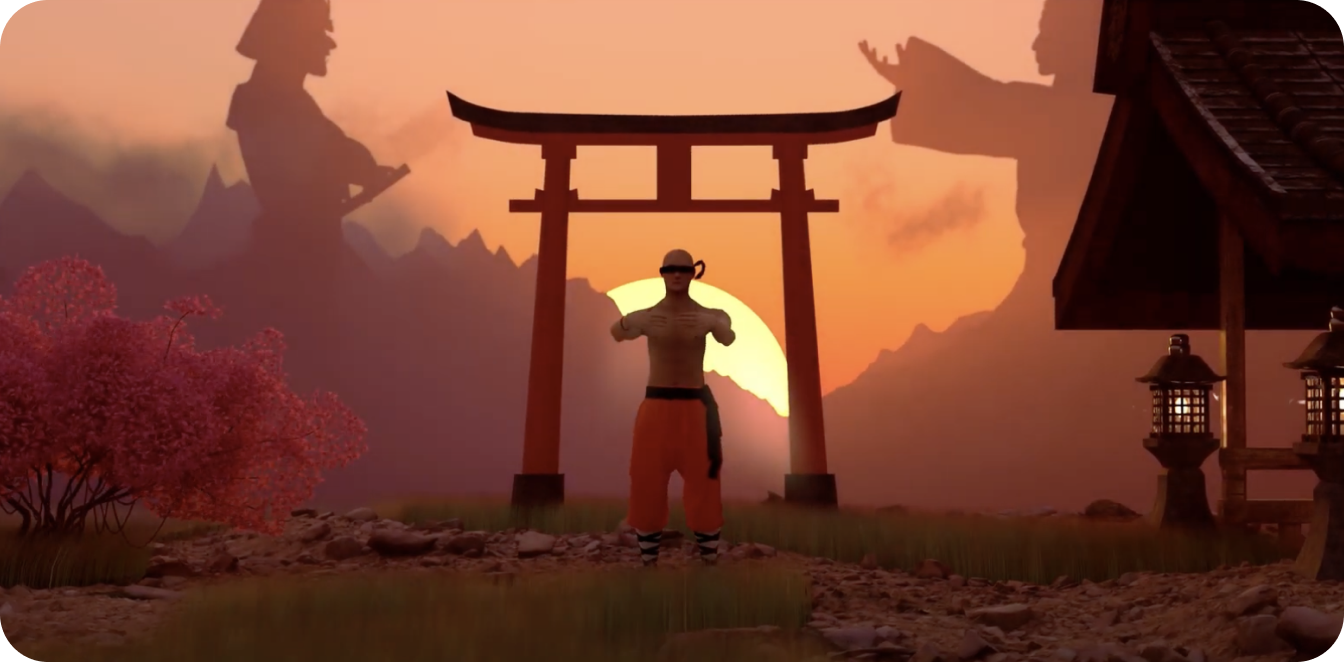
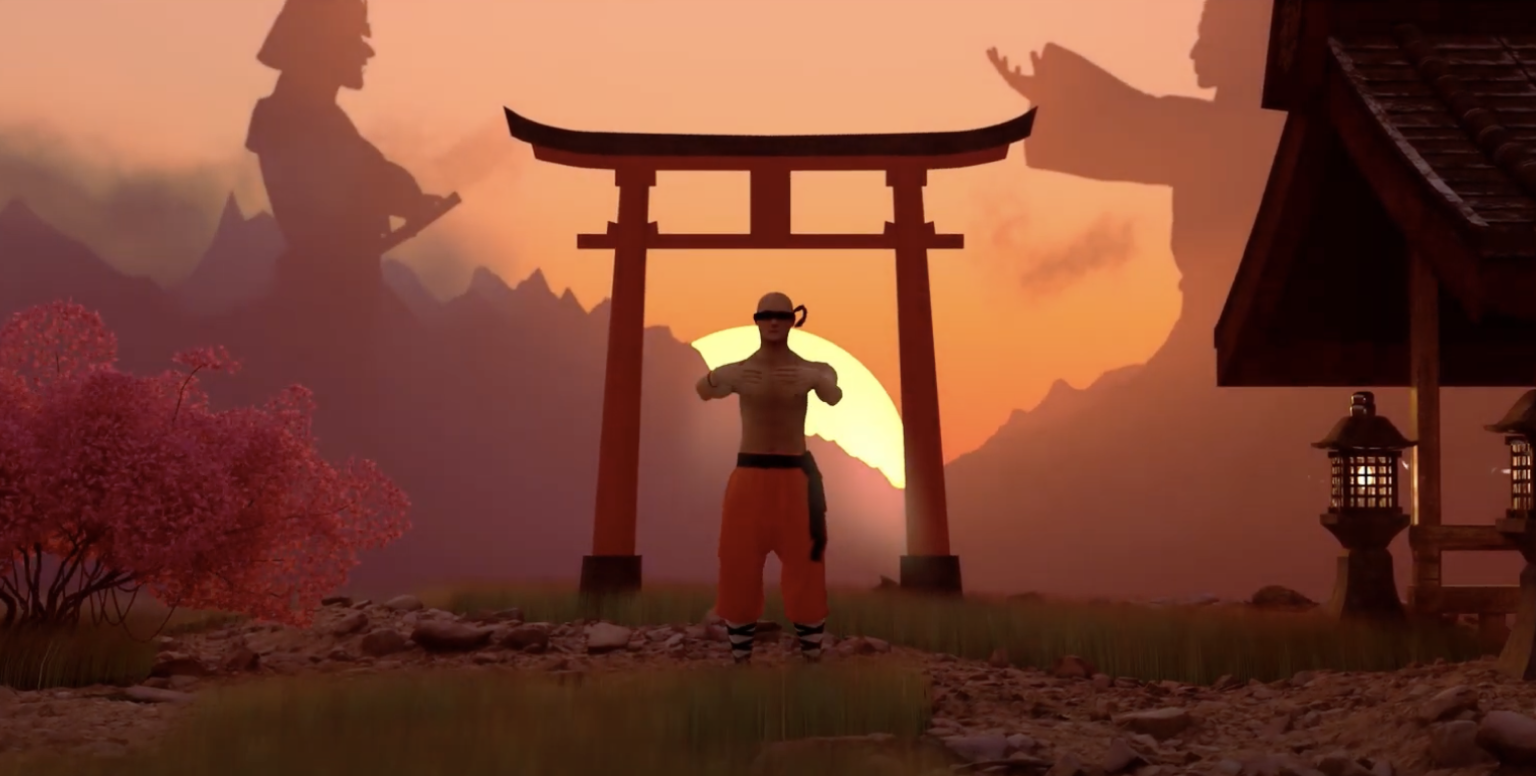
Scrolling navbar

diff --git a/src/pages/index.js b/src/pages/index.js
@@ -56,24 +56,35 @@ export default function Home() {
 
 	function ThreeD() {
 		return (
-			<div>
+			<div className={'relative'}>
 				<Image
 					id='heroImage'
-					className='w-full rounded-3xl'
+					className='w-full max-h-[900px]'
 					src={taichi}
 					alt="Picture of the author"
 					placeholder='blur'
+					style={{objectFit:"cover"}}
 				/>
-				<div className='px-24'>
+				<div className='container mx-auto px-5'>
 					<h1 className='text-subtitle1 mt-14'>Why 3D?</h1>
 					<div className='h-1 w-9 bg-obsidian dark:bg-white mt-3'></div>
 					<p className='text-cardText1 mt-4'>3D is the best way to make your product stand out from the crowd.</p>
 				</div>
 
-				<div className='flex gap-8 px-24 mt-28'>
+				<div className='flex gap-8 mt-28 flex-wrap lg:flex-nowrap container mx-auto px-5'>
 
-					<Card></Card>
-					<Card></Card>
+					<Card
+						title={'Our process'}
+						description={'We believe in the agile process. We would love to discuss our approach with you'}
+						more={'We believe in the agile process. We would love to discuss our approach with you. We believe in the agile process. We would love to discuss our approach with you.'}
+					></Card>
+
+
+					<Card
+						title={'Our process'}
+						description={'We believe in the agile process. We would love to discuss our approach with you'}
+						more={'We believe in the agile process. We would love to discuss our approach with you. We believe in the agile process. We would love to discuss our approach with you.'}
+					></Card>
 
 				</div>
 			</div>
@@ -193,7 +204,7 @@ export default function Home() {
 
 				<div id='firstSection' className='mt-10 rounded-t-3xl pt-40 pb-16 bg-white dark:bg-black relative'>
 
-					<div className='container mx-auto px-10'>
+					<div className='container mx-auto px-10 mb-24 md:mb-72 lg:mb-80'>
 						<p className='text-hero text-obsidian dark:text-white relative'><span className='text-ornament absolute bottom-[13px] -ml-10'>01</span>What we do</p>
 
 						<p className='text-subtitle1 text-obsidian dark:text-white mt-24 md:mt-72 lg:mt-80'>We help creating your dreams.</p>
@@ -201,20 +212,18 @@ export default function Home() {
 					</div>
 
 
-					<div className='sticky top-36 z-10 container mx-auto'>
+					<div className='sticky top-36 z-10 container mx-auto overflow-x-scroll sm:overflow-x-visible sm:my-16 fuckScrollBar'>
 						<div id='tab'
 							 className='relative flex flex-row justify-between text-body backdrop-blur-[10px]
 							  text-obsidian dark:text-white w-full bg-cloud dark:bg-storm rounded-full h-[67px] sm:h-[85px]
-							   items-center px-10 mt-16 mb-16'>
-							<span id='bubbleTab' className='absolute bg-white dark:bg-obsidian w-[280px] h-[43px] sm:h-[60px] rounded-full left-0 transition-all'>
-
-							</span>
-							<p id='tab1' className='z-10 cursor-pointer px-10 py-8' onClick={(e)=> moveTab(e,1)}>3D Projects</p>
-							<p id='tab2' className='z-10 cursor-pointer px-10 py-8' onClick={(e)=> moveTab(e,2)}>UI & UX Design</p>
-							<p id='tab3' className='z-10 cursor-pointer px-10 py-8' onClick={(e)=> moveTab(e,3)}>Coding</p>
-							<p id='tab4' className='z-10 cursor-pointer px-10 py-8' onClick={(e)=> moveTab(e,4)}>Video & Photo</p>
+							   items-center px-10 min-w-[600px] m-[10px] sm:m-0'>
+							<span id='bubbleTab' className='absolute bg-white dark:bg-obsidian w-[280px] h-[43px] sm:h-[60px] rounded-full left-0 transition-all'></span>
+							<p id='tab1' className='z-10 cursor-pointer px-4 lg:px-10 py-8' onClick={(e)=> moveTab(e,1)}>3D Projects</p>
+							<p id='tab2' className='z-10 cursor-pointer px-4 lg:px-10 py-8' onClick={(e)=> moveTab(e,2)}>UI & UX Design</p>
+							<p id='tab3' className='z-10 cursor-pointer px-4 lg:px-10 py-8' onClick={(e)=> moveTab(e,3)}>Coding</p>
+							<p id='tab4' className='z-10 cursor-pointer px-4 lg:px-10 py-8' onClick={(e)=> moveTab(e,4)}>Video & Photo</p>
 						</div>
-						<div className='border-gradient -z-50 rounded-full'></div>
+						<div className='border-gradient sm:m-0 -z-50 rounded-full min-w-[600px]'></div>
 					</div>
 					<div className='bg-zinc-50 dark:bg-neutral-900'>
 						<Activity step={tabState}></Activity>

diff --git a/src/components/card.js b/src/components/card.js
@@ -1,41 +1,53 @@
 import React, {useEffect, useState} from "react";
 import openCard from "../../public/open-card.svg";
 import openCardDark from "../../public/open-card-dark.svg";
+import closeModal from "../../public/close-modal.svg";
+import closeModalDark from "../../public/close-modal-dark.svg";
 import Image from "next/image";
 
-export default function Card() {
+export default function Card(props) {
 
 	const [backdrop, setBackdrop] = useState(false)
 
 	useEffect(() => {
-
 		if(backdrop) {
 			document.querySelector('body').style.overflowY = 'hidden'
 		} else {
 			document.querySelector('body').style.overflowY = 'auto'
 		}
-	}, );
+
+		function escFunction(event){
+			if (event.key === "Escape") {
+				if(backdrop) {
+					setBackdrop(false)
+				}
+			}
+		}
+
+		window.addEventListener("keydown", escFunction);
+		return () => {
+			window.removeEventListener("keydown", escFunction);
+		};
+	});
+
 
 	function BackDrop() {
 		return (
 			<div className='flex fixed top-0 bottom-0 right-0 left-0 justify-center items-center z-50'>
-				<div className='fixed top-0 bottom-0 right-0 left-0 backdrop-blur-xl'></div>
-				<div className='flex flex-col bg-white justify-between rounded-2xl w-[900px] pt-20 px-20 pb-16 z-30'>
-					<h3 className='font-bold text-3xl'>Our suite</h3>
-					<p className='h-1 w-10 bg-nytz-dark mt-8 mb-16'></p>
-					<p className='mb-16'>
-						3D is a way to make your product stand out from the crowd 3D is a way to make your product
-						stand out from the crowd 3D is a way to make your product stand out from the crowd 3D is a
-						way to make your product stand out from the crowd 3D is a way to make your product stand out
-						from the crowd 3D is a way to make your product stand out from the crowd 3D is a way to make
-						your product stand out from the crowd 3D is a way to make your product stand out from the crowd
-						3D is a way to make your product stand out from the crowd
-					</p>
+				<div
+					onClick={()=> setBackdrop(false)}
+					className='fixed top-0 bottom-0 right-0 left-0 bg-modal-backdrop/60 dark:bg-black/60 backdrop-blur-xl'></div>
+				<div className='flex flex-col bg-fog dark:bg-obsidian justify-between rounded-2xl w-[900px] pt-20 px-20 pb-16 z-30 mx-5'>
+					<h3 className='text-subtitle1'>{props.title}</h3>
+					<div className='h-1 w-9 bg-obsidian dark:bg-white mt-3'></div>
 
+					<p className='text-body mt-16 mb-16'>{props.more}</p>
 					<p
 						onClick={()=> setBackdrop(false)}
-						className='border border-nytz-dark w-14 h-14 flex rounded-full self-center flex-wrap justify-center content-center cursor-pointer'>
-						X
+						className='flex rounded-full self-center flex-wrap justify-center content-center cursor-pointer'>
+						<Image alt='' src={closeModal} className='block dark:hidden'></Image>
+						<Image alt='' src={closeModalDark} className='hidden dark:block'></Image>
+
 					</p>
 				</div>
 		</div>
@@ -46,8 +58,8 @@ export default function Card() {
 		<div className='relative'>
 			<div className='flex flex-col justify-between bg-fog dark:bg-obsidian rounded-[48px] h-96 p-10 relative z-10'>
 				<div>
-					<h3 className='text-subtitle2 mb-8'>Our Suite</h3>
-					<p className='text-cardText2'>We work with Blender, but are also starting to offer Unreal Engine</p>
+					<h3 className='text-subtitle2 mb-2'>{props.title}</h3>
+					<p className='text-cardText2'>{props.description}</p>
 				</div>
 
 				<span onClick={()=> setBackdrop(true)} className='absolute bottom-5 right-5 cursor-pointer'>

diff --git a/src/styles/globals.css b/src/styles/globals.css
@@ -77,6 +77,7 @@
     left: -2px; right: -2px;
     background: linear-gradient(90deg, rgba(227,226,227,1) 0%, rgba(250,249,249,1) 100%);
     content: '';
+    margin: 10px;
 }
 
 .sticky .border-gradient {
@@ -95,4 +96,13 @@
 
 .rotating-gradient {
     background: url(../../public/noise-texture-200x200.png), 100px 100px repeat, linear-gradient(46deg, rgba(73, 9, 103, 0.81) 20.83%, rgba(17, 141, 181, 0.79) 97.92%);
+}
+
+
+.fuckScrollBar {
+    -ms-overflow-style: none;  /* Internet Explorer 10+ */
+    scrollbar-width: none;  /* Firefox */
+}
+.fuckScrollBar::-webkit-scrollbar {
+    display: none;  /* Safari and Chrome */
 }

diff --git a/tailwind.config.js b/tailwind.config.js
@@ -105,6 +105,8 @@ module.exports = {
         'midnight': '#3D3D3F',
         'storm': 'rgba(61, 61, 63, 0.8)',
         'obsidian': '#272727',
+
+        'modal-backdrop': '#383838',
       },
     },
   },
